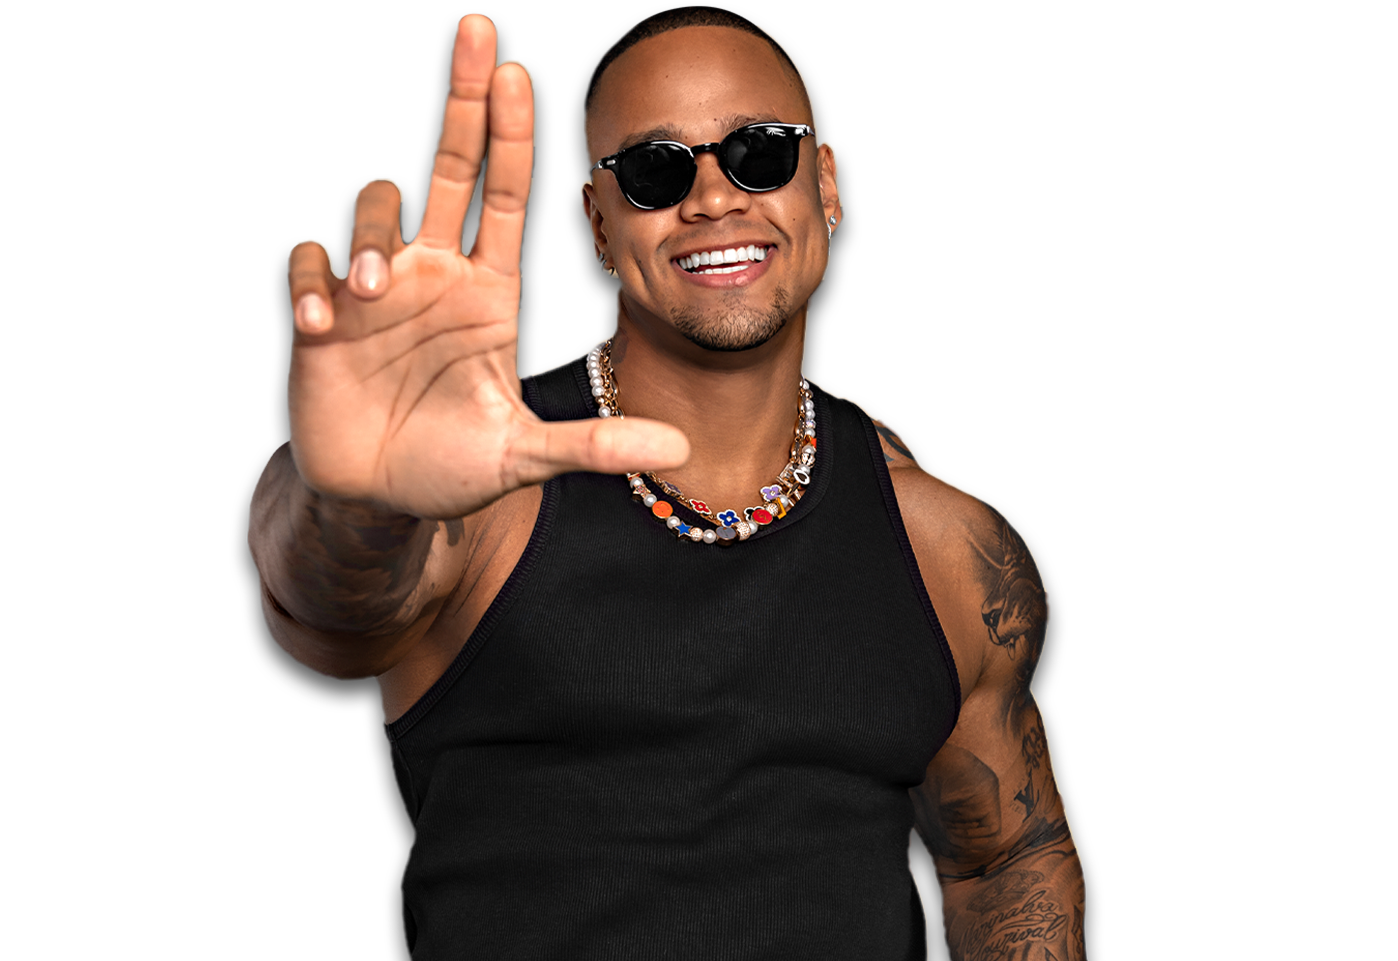
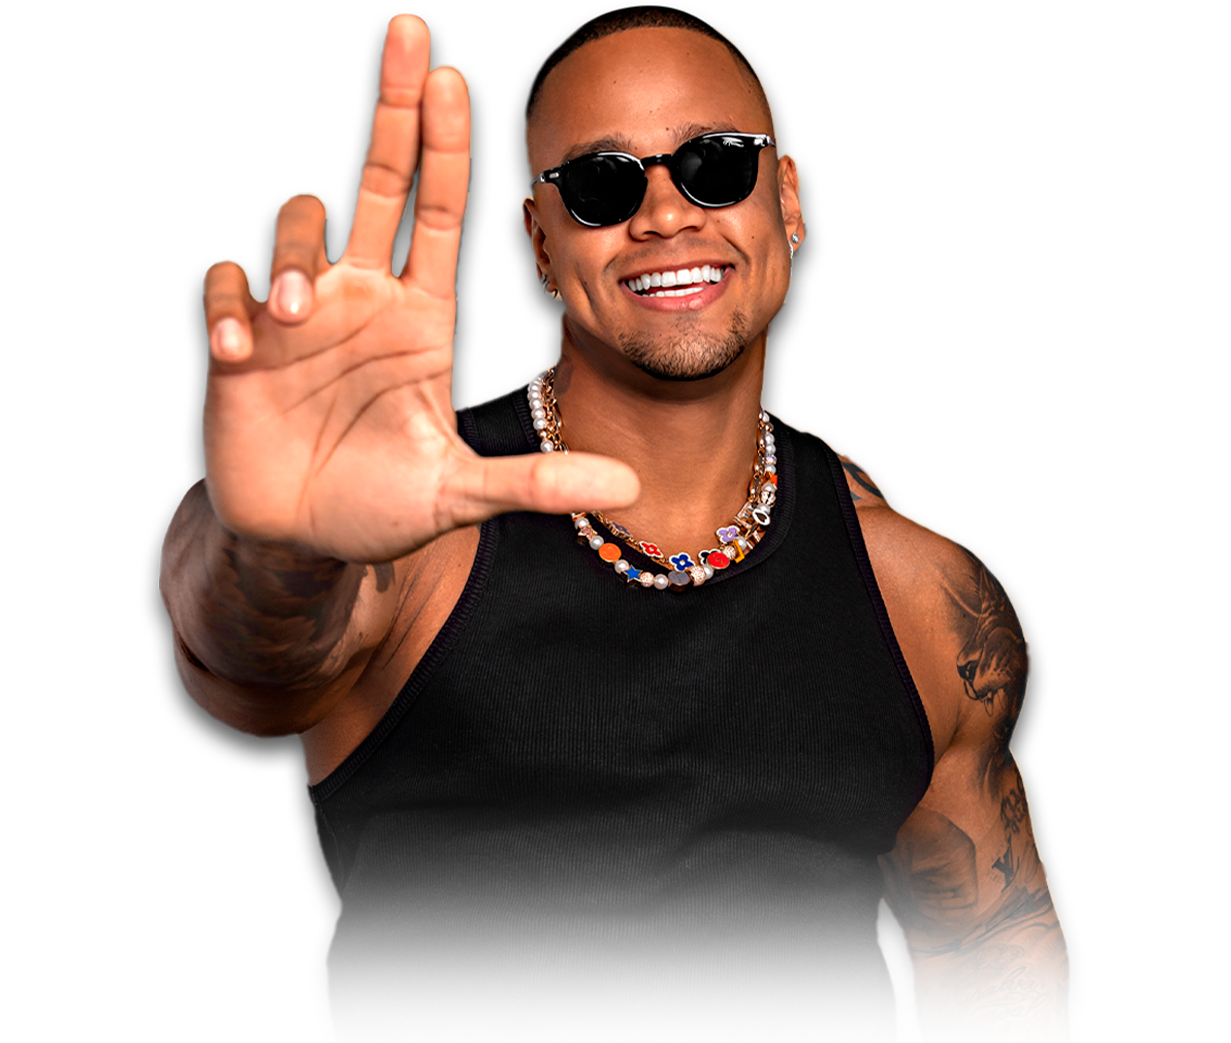
refactor: update media query breakpoints and adjust padding for improved responsiveness; modify hero section styles for better layout flexibility

diff --git a/css/layout/hero.css b/css/layout/hero.css
@@ -5,7 +5,7 @@
 
 .hero-image {
   width: 100%;
-  height: 600px; /* Altura fixa para evitar mudanças de layout */
+  /* Removido height fixa */
   position: relative;
   display: flex;
   align-items: center;
@@ -14,22 +14,11 @@
 
 .hero-image img {
   width: 100%;
-  height: 100%;
-  object-fit: contain; /* Mantém proporção sem cortar */
+  height: auto;
+  max-height: 70vh;
+  object-fit: contain;
   object-position: center;
   transition: opacity 0.3s ease-in-out;
-}
-
-.hero-image::after {
-  content: "";
-  position: absolute;
-  bottom: 0;
-  left: 0;
-  right: 0;
-  height: 120px;
-  background: linear-gradient(to bottom, transparent 0%, var(--primary-color) 100%);
-  pointer-events: none;
-  z-index: 2;
 }
 
 .hero-text {
@@ -42,34 +31,31 @@
 /* Mobile Responsivity */
 /* Tablet */
 @media (max-width: 1024px) {
-  .hero-image {
-    height: 500px; /* Altura menor para tablet */
-  }
-  
   .hero-text {
     width: 90%;
   }
 }
 
 /* Mobile */
-@media (max-width: 768px) {
-  .hero-image {
-    height: 400px; /* Altura menor para mobile */
-  }
-  
-  .hero-logo {
-    display: none;
-  }
-  
+@media (max-width: 950px) {
   .hero-text {
     width: 100%;
     text-align: center;
+    order: 2;
   }
-
+  .hero-logo {
+    display: none;
+  }
+  .hero-image {
+    order: 1;
+  }
+  /* Remove qualquer order dos filhos de .hero-text para não afetar o layout interno */
+  .hero-text > * {
+    order: unset !important;
+  }
   .hero-text .btn {
     margin: var(--spacing-lg) auto;
   }
-
   .hero-text h1,
   .hero-text p {
     width: 100%;
@@ -79,19 +65,7 @@
 
 /* Mobile pequeno */
 @media (max-width: 480px) {
-  .hero-image {
-    height: 300px; /* Altura ainda menor para mobile pequeno */
-  }
-
-  .hero-logo {
-    display: none;
-  }
-  
   .hero-text {
     gap: var(--spacing-lg);
-  }
-  
-  .hero-image::after {
-    height: 80px;
   }
 }

diff --git a/css/global.css b/css/global.css
@@ -91,15 +91,15 @@ footer .container {
 /* Responsividade Global */
 @media (max-width: 1024px) {
   .container {
-    padding: 4.5rem var(--spacing-md);
+    padding: 5rem var(--spacing-md);
   }
 }
 
-@media (max-width: 768px) {
+@media (max-width: 950px) {
   .container {
     flex-direction: column;
     gap: var(--spacing-xl);
-    padding: 3rem var(--spacing-sm);
+    padding: 4.5rem var(--spacing-sm) 2rem var(--spacing-sm);
   }
 
   /* Centralizar todos os textos no mobile */
@@ -118,7 +118,6 @@ footer .container {
 
 @media (max-width: 480px) {
   .container {
-    padding: 2rem var(--spacing-sm);
     gap: var(--spacing-lg);
   }
 }

diff --git a/css/layout/benefits.css b/css/layout/benefits.css
@@ -14,11 +14,11 @@
 
 .sticky-title {
   position: sticky;
-  top: 115px;
+  top: 116px;
   z-index: 100;
   text-align: center;
   margin-bottom: var(--spacing-2xl);
-  padding: var(--spacing-md);
+  padding: var(--spacing-lg);
   backdrop-filter: blur(10px);
 }
 
@@ -104,7 +104,7 @@
   }
 
   .sticky-title {
-    top: 80px;
+    top: 55px;
     margin-bottom: var(--spacing-xl);
   }
 

diff --git a/css/components/header.css b/css/components/header.css
@@ -130,7 +130,7 @@ nav a:hover {
 }
 
 /* Mobile */
-@media (max-width: 768px) {
+@media (max-width: 950px) {
   header .container {
     padding: var(--spacing-xs) var(--spacing-md) !important;
   }
@@ -149,7 +149,7 @@ nav a:hover {
 
   .nav-links {
     position: absolute;
-    top: 118px;
+    top: 57px;
     right: 0;
     width: 100vw;
     background: rgba(24, 47, 152, 0.5);

diff --git a/css/layout/how-to.css b/css/layout/how-to.css
@@ -29,7 +29,6 @@
   line-height: 1.6;
   color: rgba(255, 255, 255, 0.9);
   margin-bottom: var(--spacing-xl);
-  text-align: justify;
 }
 
 .how-to-text .btn {
@@ -86,10 +85,6 @@
   .how-to-text h1 {
     text-align: center;
     margin-bottom: var(--spacing-md);
-  }
-
-  .how-to-text p {
-    text-align: left;
   }
 }
 

diff --git a/css/variables.css b/css/variables.css
@@ -50,7 +50,7 @@
   --font-md: clamp(21px, 3.1vw, 25px);
   --font-lg: clamp(25px, 3.7vw, 29px);
   --font-xl: clamp(29px, 4.2vw, 34px);
-  --font-2xl: clamp(34px, 4.9vw, 41px);
+  --font-2xl: clamp(32px, 4.8vw, 40px);
 
   /* Dimensions */
   --border-radius-sm: 8px;

diff --git a/css/layout/bet.css b/css/layout/bet.css
@@ -8,7 +8,7 @@
 
 .bet .container {
   justify-content: center;
-  align-items: center;
+  align-items: self-start;
   text-align: center;
 }
 
